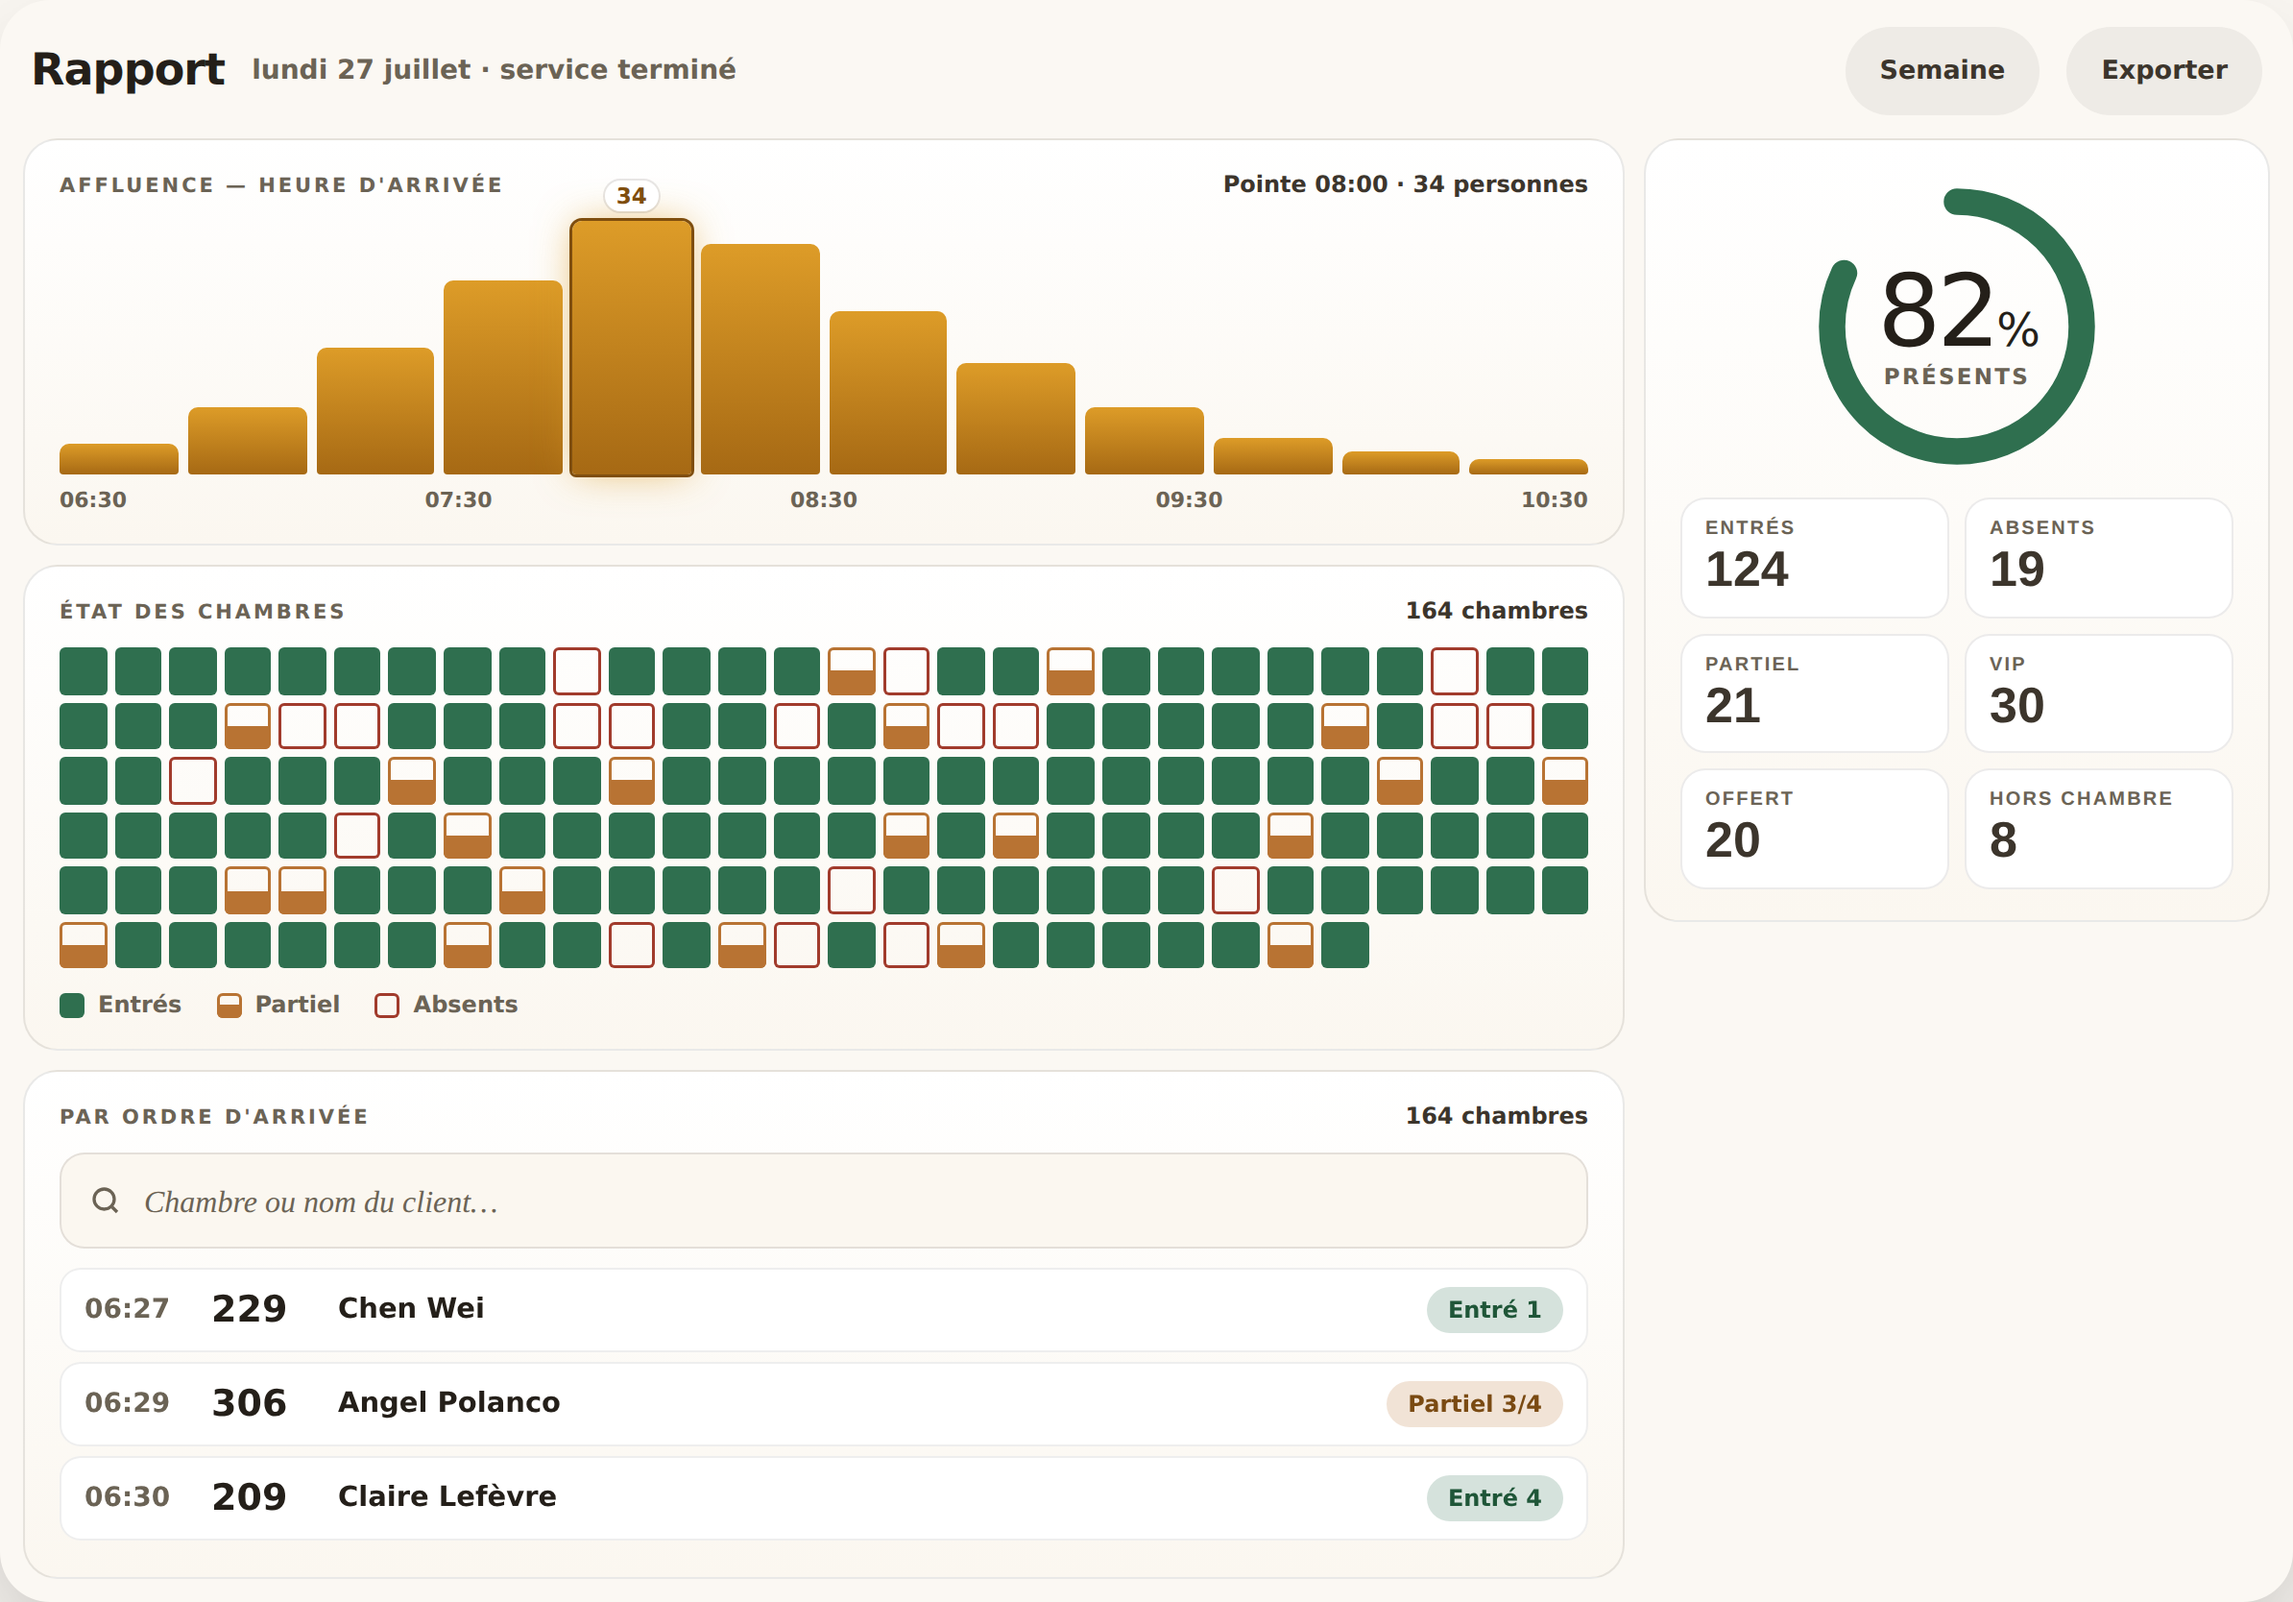
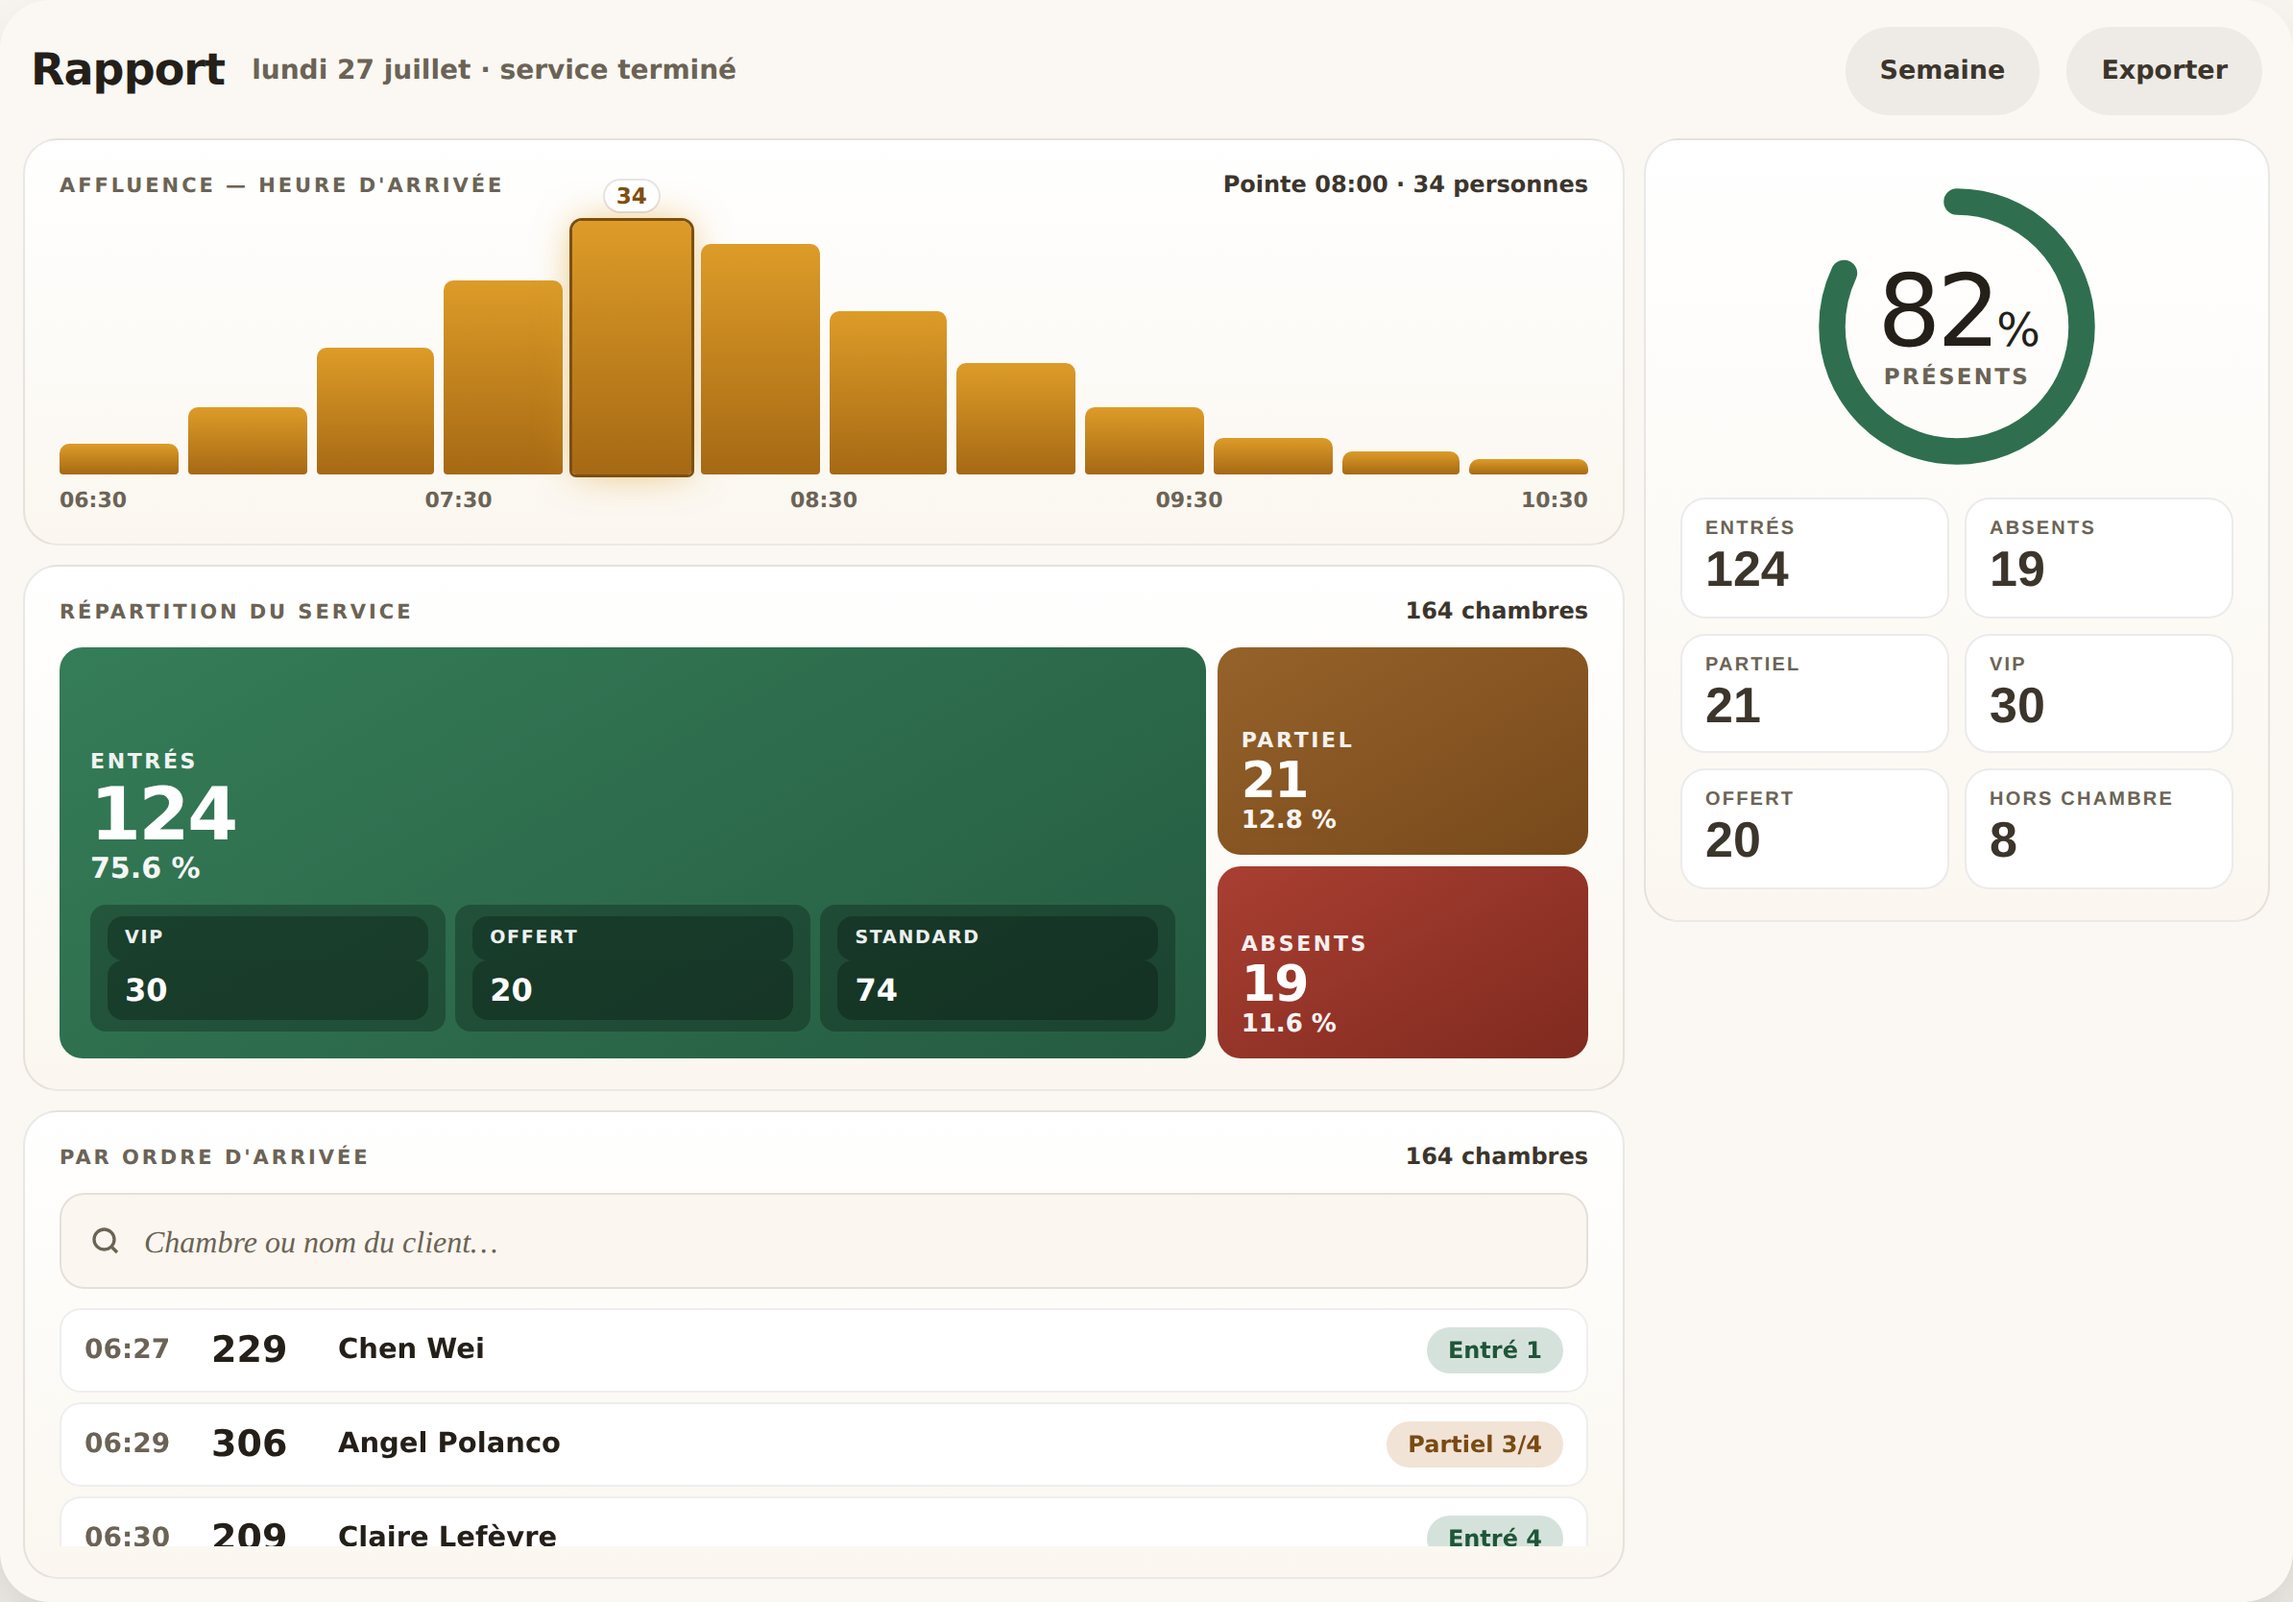
Report v2: treemap instead of a uniform cell grid
Reference was Binance's Data tab: area encodes magnitude, so the split
reads without counting anything. Entrés takes its own column sized by its
share; Partiel and Absents split the second column by their relative
weight, so the taller block is genuinely the bigger number.

Entrés is subdivided into VIP / Offert / Standard on the map itself — a
VIP who never showed matters more than a total, and burying that in the
list makes it invisible.

Because area now carries the proportion, colour is only a label, so the
red/green pairing stops being load-bearing for comprehension.

White labels sit directly on these gradients, so the LIGHT stop of each
had to clear AA on its own. The amber measured 2.92:1 and the green
3.99:1 in light mode; all three gradients are deepened.

Blocks are clickable and drive the same filter as the tiles.

Claude-Session: https://claude.ai/code/session_01PvjN1yrwGssKpuvjG4vcfR

Changed region(s): [[0.0, 0.3741, 0.7127, 0.9664], [0.5888, 0.7794, 0.6817, 0.9664]]

diff --git a/mockups/report-v2.html b/mockups/report-v2.html
@@ -61,18 +61,30 @@
   .axis{display:flex;justify-content:space-between;margin-top:7px;font-size:11px;
     color:var(--muted);font-weight:700}
 
-  /* 2 · heat grid — status is carried by SHAPE as well as colour, so it survives
-     greyscale and red/green colour-blindness (the pair carrying the most weight). */
-  .grid{display:grid;grid-template-columns:repeat(28,1fr);gap:4px;margin-top:12px}
-  .cell{aspect-ratio:1;border-radius:3px;position:relative;cursor:pointer}
-  .cell.in{background:var(--good-lit)}
-  .cell.pa{background:transparent;box-shadow:inset 0 0 0 1.5px var(--warn-lit);overflow:hidden}
-  .cell.pa::after{content:"";position:absolute;left:0;right:0;bottom:0;height:50%;
-    background:var(--warn-lit)}
-  .cell.no{background:transparent;box-shadow:inset 0 0 0 1.5px var(--bad-lit)}
-  .legend{display:flex;gap:18px;margin-top:12px;font-size:12px;font-weight:700;color:var(--muted)}
-  .legend span{display:flex;align-items:center;gap:7px}
-  .sw{width:13px;height:13px;border-radius:3px;position:relative}
+  /* 2 · treemap — area carries the proportion, which is the whole point: you
+     read the split without counting anything. Colour is then only a label, so
+     the red/green problem stops being load-bearing. */
+  .tm{display:flex;gap:6px;height:214px;margin-top:12px}
+  .tm .col{display:flex;flex-direction:column;gap:6px}
+  .blk{position:relative;border-radius:12px;padding:14px 16px;overflow:hidden;cursor:pointer;
+    display:flex;flex-direction:column;justify-content:flex-end;color:#fff}
+  .blk .k{font-size:11px;letter-spacing:.12em;text-transform:uppercase;font-weight:800;
+    opacity:.92}
+  .blk .v{font-size:38px;font-weight:800;line-height:1;letter-spacing:-.03em;
+    font-variant-numeric:tabular-nums;margin-top:2px}
+  .blk .p{font-size:15px;font-weight:800;opacity:.95;font-variant-numeric:tabular-nums}
+  .blk.sm{padding:10px 12px}
+  .blk.sm .v{font-size:26px}
+  .blk.sm .p{font-size:13px}
+  .b-in{background:linear-gradient(150deg,#357D58,#255B41)}
+  .b-pa{background:linear-gradient(150deg,#96622A,#77491B)}
+  .b-no{background:linear-gradient(150deg,#A93F32,#802A1F)}
+  /* sub-blocks inside Entrés — a VIP that never showed matters more than a
+     count, so the breakdown is on the map, not buried in the list. */
+  .sub{display:flex;gap:5px;margin-top:10px}
+  .sub div{flex:1;border-radius:8px;padding:6px 9px;background:rgba(0,0,0,.26)}
+  .sub .k{font-size:9.5px;letter-spacing:.09em}
+  .sub .n{font-size:16px;font-weight:800;font-variant-numeric:tabular-nums}
 
   /* 3 · list */
   .listpane{flex:1;min-height:0;display:flex;flex-direction:column}
@@ -154,13 +166,8 @@
 
       <!-- 2 · heat grid -->
       <div class="pane">
-        <div class="cap"><span>État des chambres</span><b>164 chambres</b></div>
-        <div class="grid" id="grid"></div>
-        <div class="legend">
-          <span><i class="sw" style="background:var(--good-lit)"></i>Entrés</span>
-          <span><i class="sw" style="box-shadow:inset 0 0 0 1.5px var(--warn-lit);overflow:hidden"><i style="position:absolute;left:0;right:0;bottom:0;height:50%;background:var(--warn-lit)"></i></i>Partiel</span>
-          <span><i class="sw" style="box-shadow:inset 0 0 0 1.5px var(--bad-lit)"></i>Absents</span>
-        </div>
+        <div class="cap"><span>Répartition du service</span><b id="tmlab">164 chambres</b></div>
+        <div class="tm" id="tm"></div>
       </div>
 
       <!-- 3 · list -->
@@ -227,9 +234,34 @@ document.getElementById("peak").innerHTML = BUCKETS.map((v,i)=>
   `<i class="${v===peakMax?"now":""}" style="height:${(v/peakMax*100).toFixed(1)}%">
      ${v===peakMax?`<span>${v}</span>`:""}</i>`).join("");
 
-/* ── 2 · heat grid ─────────────────────────────────────────────── */
-document.getElementById("grid").innerHTML =
-  ROOMS.map(r=>`<div class="cell ${r.st}" title="${r.rm} · ${r.nm}"></div>`).join("");
+/* ── 2 · treemap ───────────────────────────────────────────────── */
+const T = ROOMS.length;
+const pc = (n)=> (n/T*100).toFixed(1) + " %";
+// Entrés keeps its own column; the two smaller outcomes share the second,
+// split by their relative weight so the taller one is genuinely the bigger one.
+const rest = N.pa + N.no;
+document.getElementById("tm").innerHTML = `
+  <div class="col" style="flex:${N.in}">
+    <div class="blk b-in" style="flex:1" onclick="setFilter('in')">
+      <div class="k">Entrés</div>
+      <div class="v">${N.in}</div>
+      <div class="p">${pc(N.in)}</div>
+      <div class="sub">
+        <div><div class="k">VIP</div><div class="n">30</div></div>
+        <div><div class="k">Offert</div><div class="n">20</div></div>
+        <div><div class="k">Standard</div><div class="n">${N.in-50}</div></div>
+      </div>
+    </div>
+  </div>
+  <div class="col" style="flex:${rest}">
+    <div class="blk b-pa sm" style="flex:${N.pa}" onclick="setFilter('pa')">
+      <div class="k">Partiel</div><div class="v">${N.pa}</div><div class="p">${pc(N.pa)}</div>
+    </div>
+    <div class="blk b-no sm" style="flex:${N.no}" onclick="setFilter('no')">
+      <div class="k">Absents</div><div class="v">${N.no}</div><div class="p">${pc(N.no)}</div>
+    </div>
+  </div>`;
+document.getElementById("tmlab").textContent = `${T} chambres`;
 
 /* ── 4 · tiles double as filters ───────────────────────────────── */
 const TILES = [
